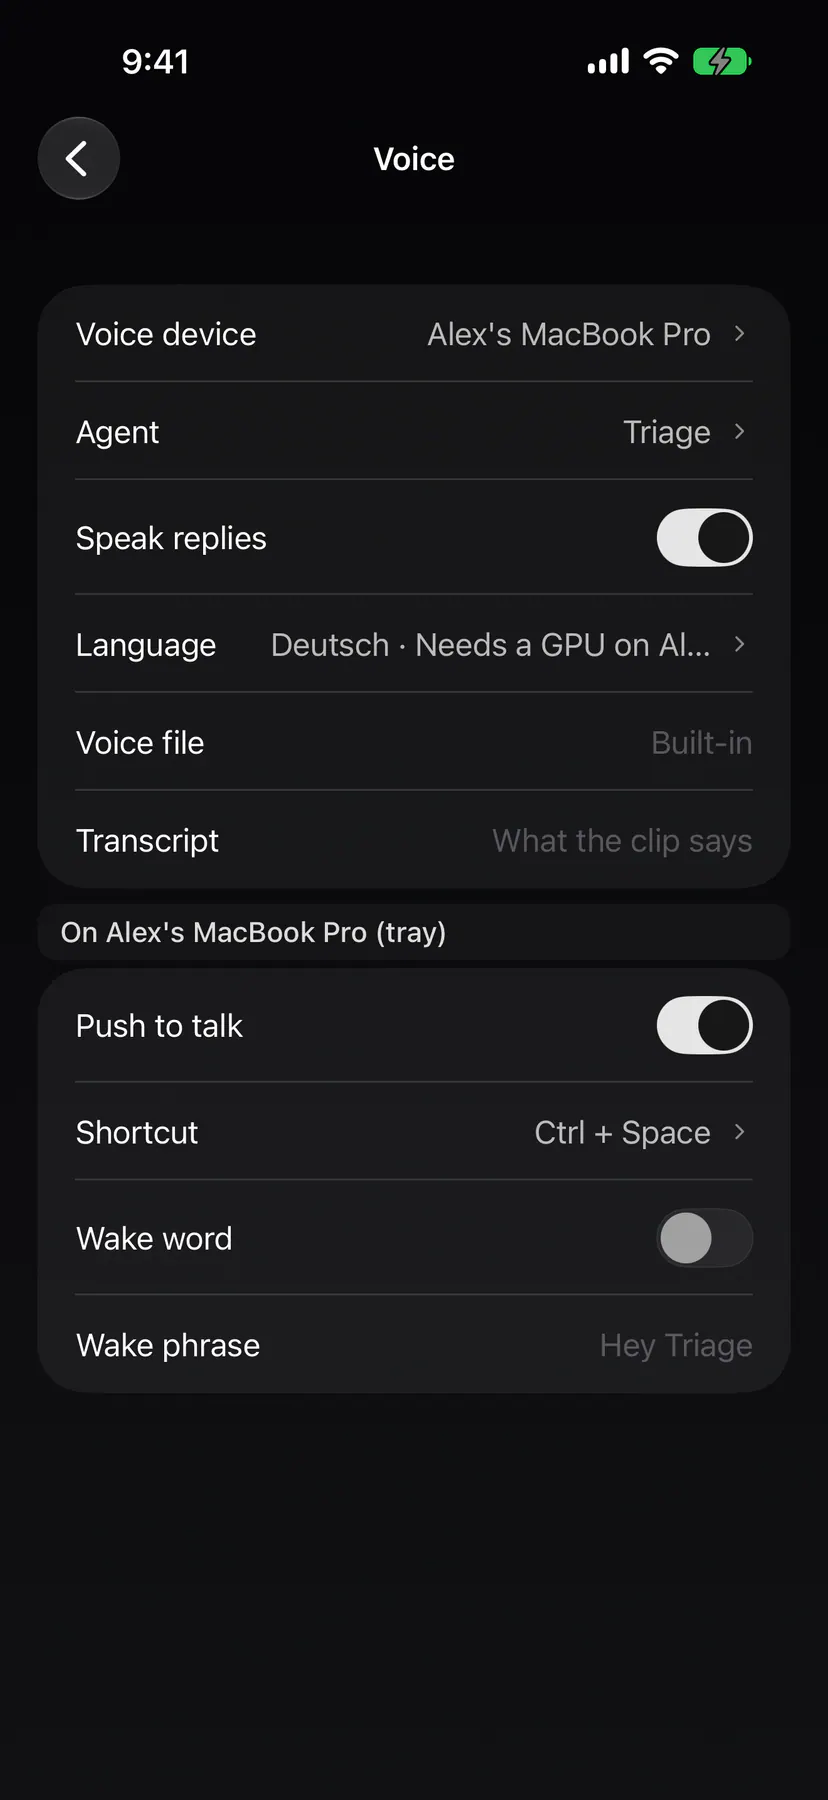
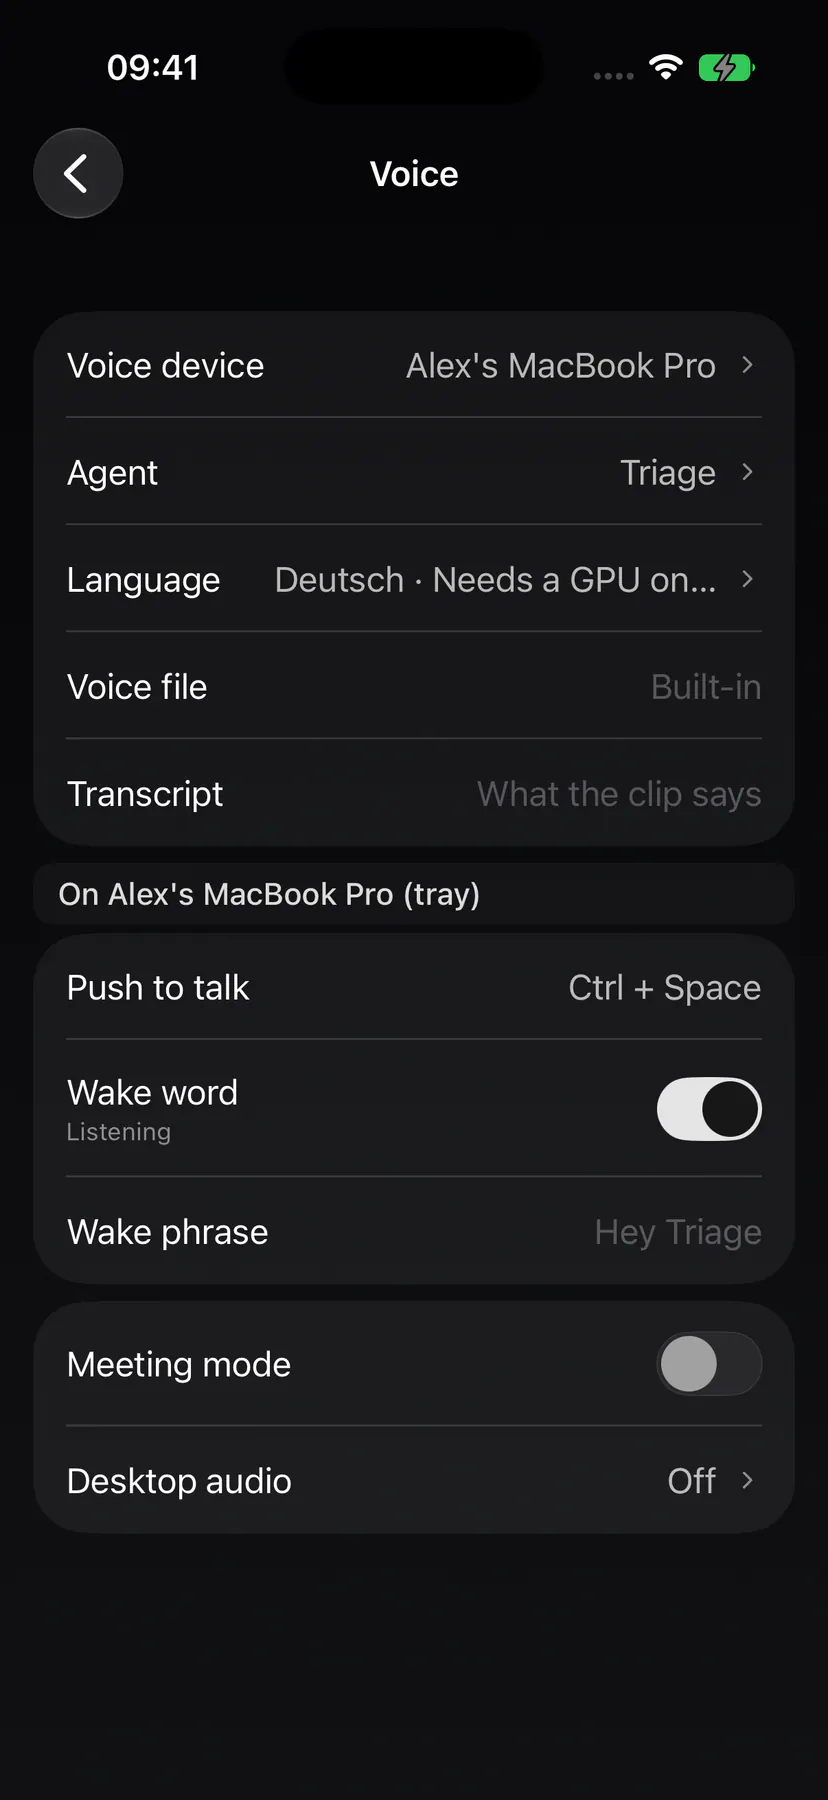
S-3 voice call iOS: read-only Push to talk row, fitted specimens, shots (voice-call, call-controls, settings-voice)

diff --git a/apps/ios/ExpUI/Sources/GlassOptionRows.swift b/apps/ios/ExpUI/Sources/GlassOptionRows.swift
@@ -85,12 +85,15 @@ public struct GlassPickerRowLabel: View {
     let value: String
     var icon: String?
     var enabled: Bool = true
+    /// False for a READ-ONLY value row (no picker behind it, S-3's Push to talk).
+    var chevron: Bool = true
 
-    public init(_ title: String, value: String, icon: String? = nil, enabled: Bool = true) {
+    public init(_ title: String, value: String, icon: String? = nil, enabled: Bool = true, chevron: Bool = true) {
         self.title = title
         self.value = value
         self.icon = icon
         self.enabled = enabled
+        self.chevron = chevron
     }
 
     public var body: some View {
@@ -113,8 +116,10 @@ public struct GlassPickerRowLabel: View {
                 .foregroundStyle(.white.opacity(enabled ? TextOpacity.secondary : TextOpacity.quaternary))
                 .lineLimit(1)
                 .truncationMode(.tail)
-            AppIcon(AppIcons.uiChevronRight, size: 14)
-                .foregroundStyle(.white.opacity(enabled ? TextOpacity.tertiary : TextOpacity.quaternary))
+            if chevron {
+                AppIcon(AppIcons.uiChevronRight, size: 14)
+                    .foregroundStyle(.white.opacity(enabled ? TextOpacity.tertiary : TextOpacity.quaternary))
+            }
         }
         .contentShape(Rectangle())
     }

diff --git a/apps/ios/Exponential/UI/Settings/VoiceSettingsPage.swift b/apps/ios/Exponential/UI/Settings/VoiceSettingsPage.swift
@@ -174,7 +174,7 @@ struct VoiceSettingsPage: View {
             if let deviceId = settings.voiceDeviceId {
                 Section {
                     // S-3: read-only; the voice device's IDE records the key.
-                    GlassPickerRowLabel(Voice.Copy.pushToTalk, value: Voice.shortcutLabel(settings.pttShortcut))
+                    GlassPickerRowLabel(Voice.Copy.pushToTalk, value: Voice.shortcutLabel(settings.pttShortcut), chevron: false)
                         .accessibilityElement(children: .combine)
                         .accessibilityIdentifier(Voice.TestIds.shortcut)
                     GlassToggleRow(

diff --git a/apps/ios/Exponential/UI/Components/ThreadCardsScreen.swift b/apps/ios/Exponential/UI/Components/ThreadCardsScreen.swift
@@ -810,7 +810,7 @@ private struct PlanCardSpecimens: View {
 private struct VoiceCallSpecimens: View {
     /// The phone the surface is laid out on, then scaled into the grid.
     private static let phone = CGSize(width: 360, height: 640)
-    private static let scale: CGFloat = 0.46
+    private static let scale: CGFloat = 0.38
 
     var body: some View {
         LazyVGrid(columns: [GridItem(.flexible(), spacing: 12), GridItem(.flexible(), spacing: 12)], spacing: 12) {
